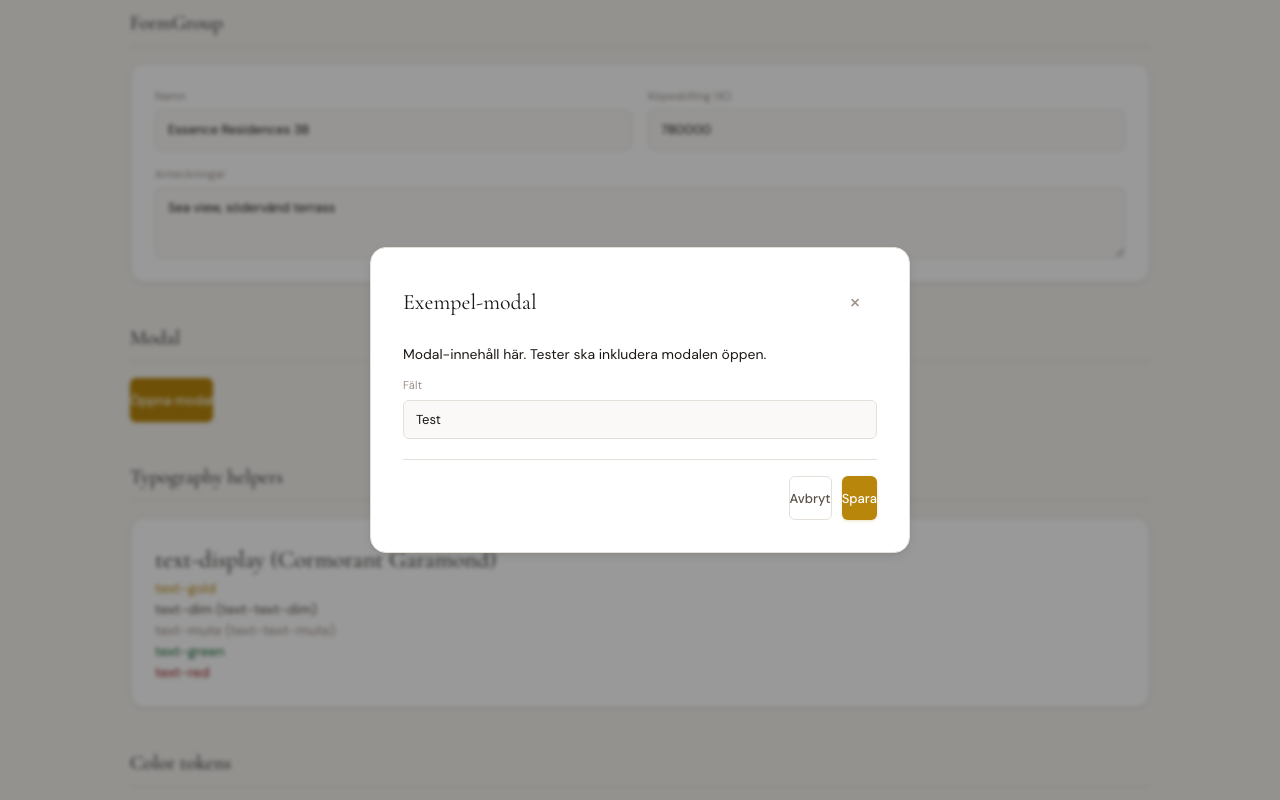
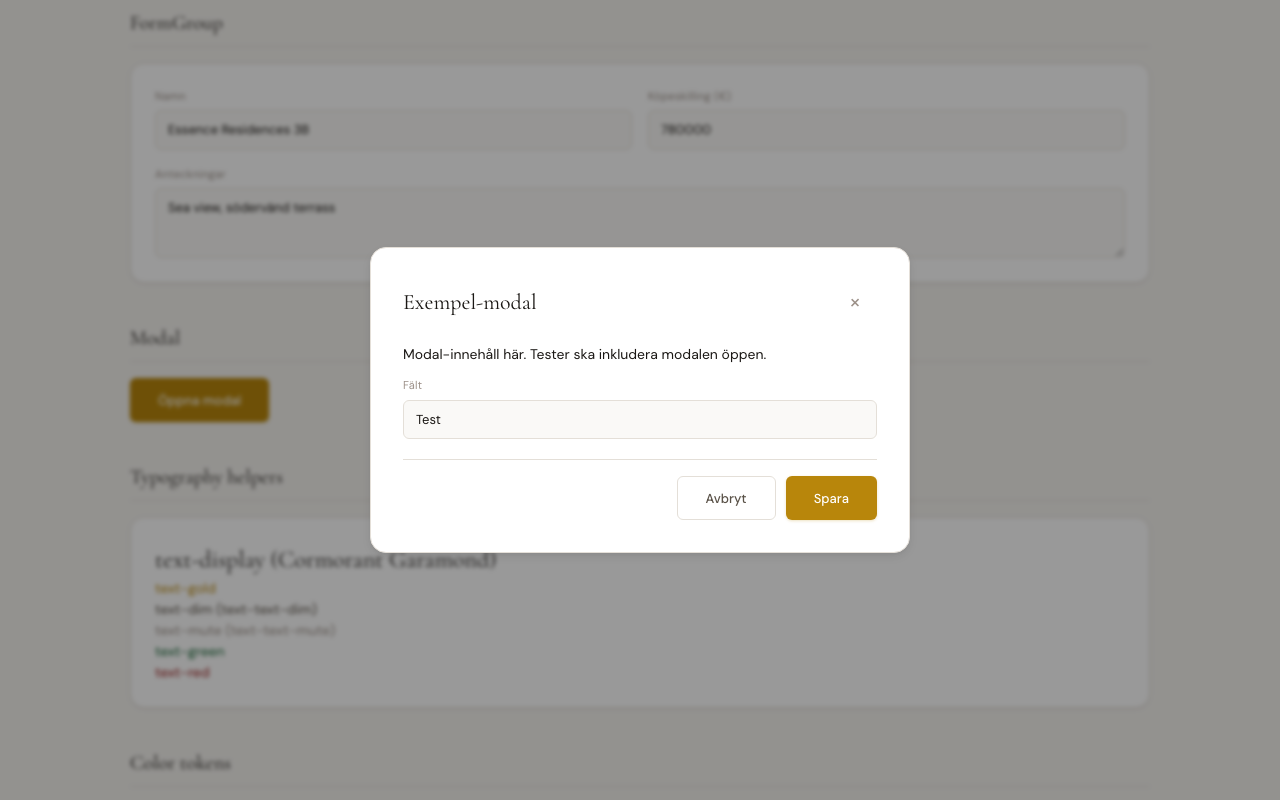
Etapp R: Root-cause-fix för Tailwind-padding + Modal till Tailwind
🎯 STOR UPPTÄCKT: Tailwind padding-utilities (px-*, py-*) har INTE fungerat
sedan Tailwind v4 installerades.

Anledningen:
  global.css hade non-layered:
    *, *::before, *::after { box-sizing: border-box; margin: 0; padding: 0; }

  Detta är duplicerat med Tailwind v4:s preflight i @user base.
  ⚠️  CSS cascade: non-layered > ALLA @user (inkl. utilities)
  → 'padding: 0' krossade alla .px-* / .py-* / .p-* utilities i tysthet
  → 'margin: 0' krossade alla margin-utilities också (m-*, ml-*, mr-*…)

Tabbarna verkade tighta? Modalen klipptes? Knapparna saknade padding?
Samma rotorsak till alltihop.

Lösningen:
  Ta bort den duplicerade reseten i global.css. Tailwind preflight gör
  redan jobbet — och korrekt, inom @user base där den ligger lägre i
  cascade än utilities. Klassiska Tailwind-utilities slår nu igenom.

Bonus-konvertering nu när rotorsaken är åtgärdad:
  - Modal: tillbaka till Tailwind (failade i Etapp Q av samma anledning)
  - Btn: bumpad till generös padding (px-7 py-3 för md, px-5 py-2.5 för sm)
  - Btn: gap-2.5 mellan ikon och text
  - Tabs: px-5 md:px-6 — synlig spacing mellan tabbarna nu

Verifierad pixel-för-pixel via Playwright på alla ändringar.

Changed region(s): [[0.5625, 0.5938, 0.6875, 0.6562], [0.1562, 0.4688, 0.2188, 0.5312], [0.0938, 0.5, 0.125, 0.5312]]

diff --git a/src/components/ui/Modal.tsx b/src/components/ui/Modal.tsx
@@ -9,14 +9,29 @@ export interface ModalProps {
 
 export function Modal({ title, onClose, children, footer }: ModalProps) {
   return (
-    <div className="modal-overlay" onClick={onClose}>
-      <div className="modal" onClick={e => e.stopPropagation()}>
-        <div className="modal-header">
-          <h2 className="modal-title">{title}</h2>
-          <button className="modal-close" onClick={onClose}>×</button>
+    <div
+      className="fixed inset-0 bg-black/40 flex items-end md:items-center justify-center z-[100] backdrop-blur-[2px]"
+      onClick={onClose}
+    >
+      <div
+        className="bg-bg-card border border-border rounded-[20px_20px_0_0] md:rounded-[16px] px-4 py-6 md:px-8 md:py-8 w-full md:w-[540px] max-h-[90dvh] md:max-h-[85vh] overflow-y-auto shadow-md"
+        onClick={e => e.stopPropagation()}
+      >
+        <div className="flex justify-between items-center mb-5">
+          <h2 className="font-display text-[20px] md:text-[22px] font-normal text-text">{title}</h2>
+          <button
+            className="bg-transparent border-0 text-text-mute text-[22px] leading-[1] p-1 rounded-[6px] min-w-[44px] min-h-[44px] flex items-center justify-center hover:bg-bg-hover hover:text-text transition-colors duration-150"
+            onClick={onClose}
+          >
+            ×
+          </button>
         </div>
         {children}
-        {footer && <div className="modal-footer">{footer}</div>}
+        {footer && (
+          <div className="flex gap-2.5 justify-end mt-5 pt-4 border-t border-border">
+            {footer}
+          </div>
+        )}
       </div>
     </div>
   );

diff --git a/src/components/ui/Btn.tsx b/src/components/ui/Btn.tsx
@@ -13,11 +13,13 @@ export interface BtnProps {
 // VIKTIGT: ingen font-size, min-height eller padding i BASE — de definieras
 // per storlek (SIZES) för att undvika konflikter mellan arbitrary values i
 // Tailwind v4 (där cascade-ordning för arbitrary values inte är garanterad).
-const BASE = 'inline-flex items-center gap-2 rounded-[6px] font-medium leading-none transition-all duration-150 whitespace-nowrap [-webkit-tap-highlight-color:transparent] disabled:opacity-50 disabled:cursor-not-allowed';
+const BASE = 'inline-flex items-center gap-2.5 rounded-[6px] font-medium leading-none transition-all duration-150 whitespace-nowrap [-webkit-tap-highlight-color:transparent] disabled:opacity-50 disabled:cursor-not-allowed';
 
+// Generös padding — knapparna ska se ut att ha "andrum". min-h ger
+// minsta höjd, py styr vertikal padding (om innehållet blir större).
 const SIZES = {
-  md: 'text-[13px] min-h-[44px] px-5 py-2.5',
-  sm: 'text-[12px] min-h-[36px] px-3.5 py-2',
+  md: 'text-[13px] min-h-[44px] px-7 py-3',     // 28px horisontellt, 12px vertikalt
+  sm: 'text-[12px] min-h-[36px] px-5 py-2.5',   // 20px horisontellt, 10px vertikalt
 } as const;
 
 const VARIANTS = {

diff --git a/src/styles/global.css b/src/styles/global.css
@@ -35,7 +35,10 @@
 }
 
 /* ── Reset ──────────────────────────────────────────────────────────────────── */
-*, *::before, *::after { box-sizing: border-box; margin: 0; padding: 0; }
+/* OBS: box-sizing/margin/padding-reset på * sköts redan av Tailwind preflight
+   i @layer base. Om vi duplicerar den här (non-layered) vinner den över ALLA
+   Tailwind-utilities (px-*, py-*, m-*, p-*) eftersom non-layered > layered.
+   Det krossade tidigare hela padding-utility-systemet i tysthet. */
 html, body, #root { height: 100%; }
 
 body {

diff --git a/src/components/ui/Tabs.tsx b/src/components/ui/Tabs.tsx
@@ -11,7 +11,9 @@ export interface TabsProps {
 
 // Vertikal padding (py-2.5) ger texten andrum trots att min-height redan
 // säkerställer 44px-höjden — utan py-2.5 hamnar texten klistrad mot kanten.
-const TAB_BASE = 'py-2.5 px-3.5 md:px-5 border-0 border-b-2 bg-transparent text-[13px] -mb-px whitespace-nowrap min-h-[44px] transition-colors duration-150 [-webkit-tap-highlight-color:transparent]';
+// Mer generös horisontell padding så att texten andas mellan tabbarna.
+// Originalet hade 14px/20px; vi bumpar till 20px/28px för tydligare separation.
+const TAB_BASE = 'py-2.5 px-5 md:px-6 border-0 border-b-2 bg-transparent text-[13px] -mb-px whitespace-nowrap min-h-[44px] transition-colors duration-150 [-webkit-tap-highlight-color:transparent]';
 
 export function Tabs({ tabs, active, onChange }: TabsProps) {
   return (